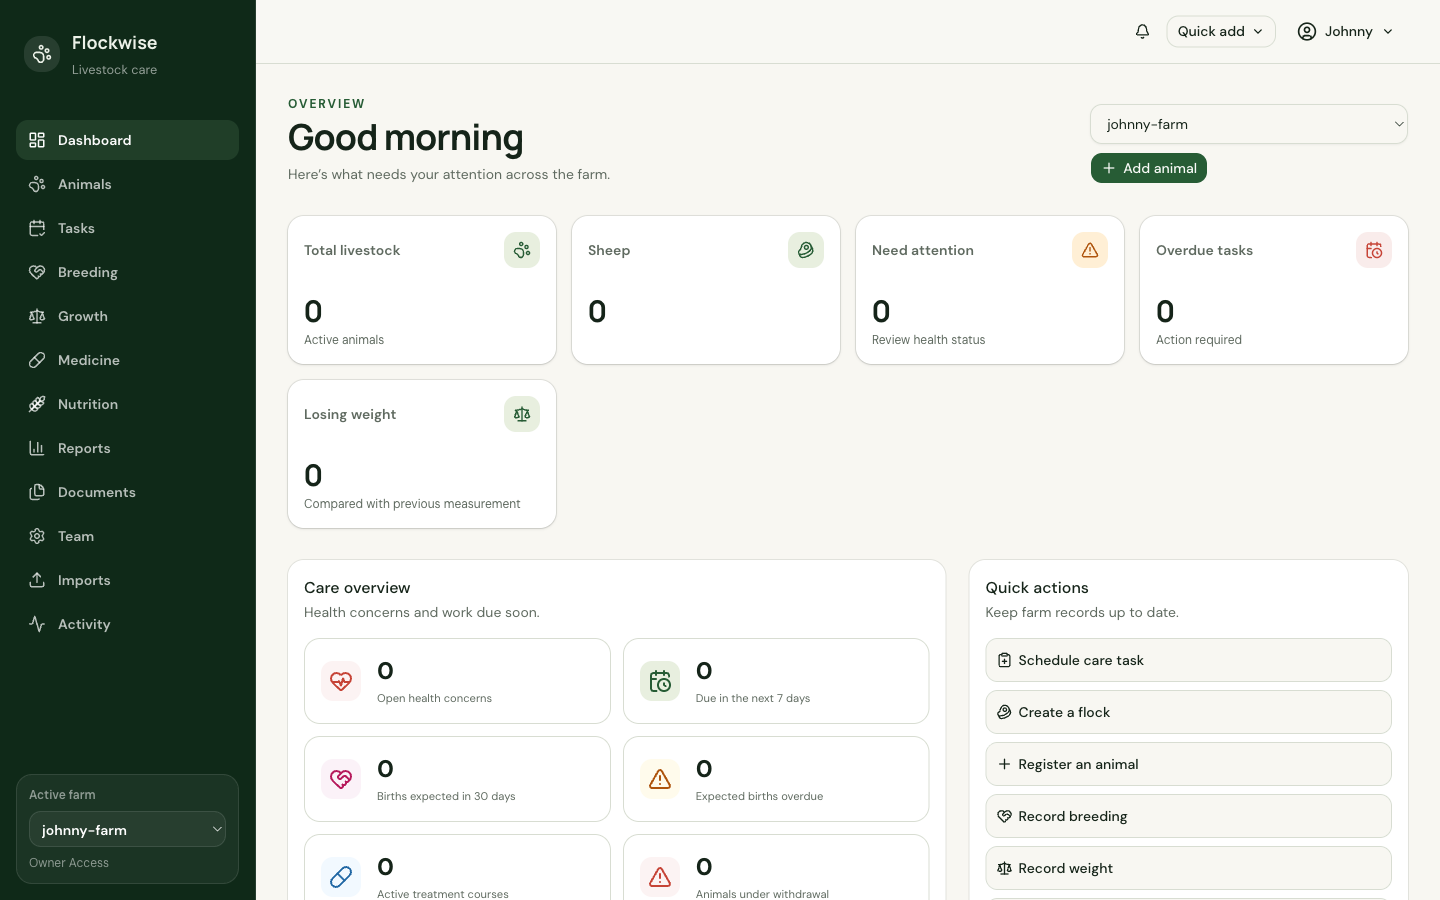
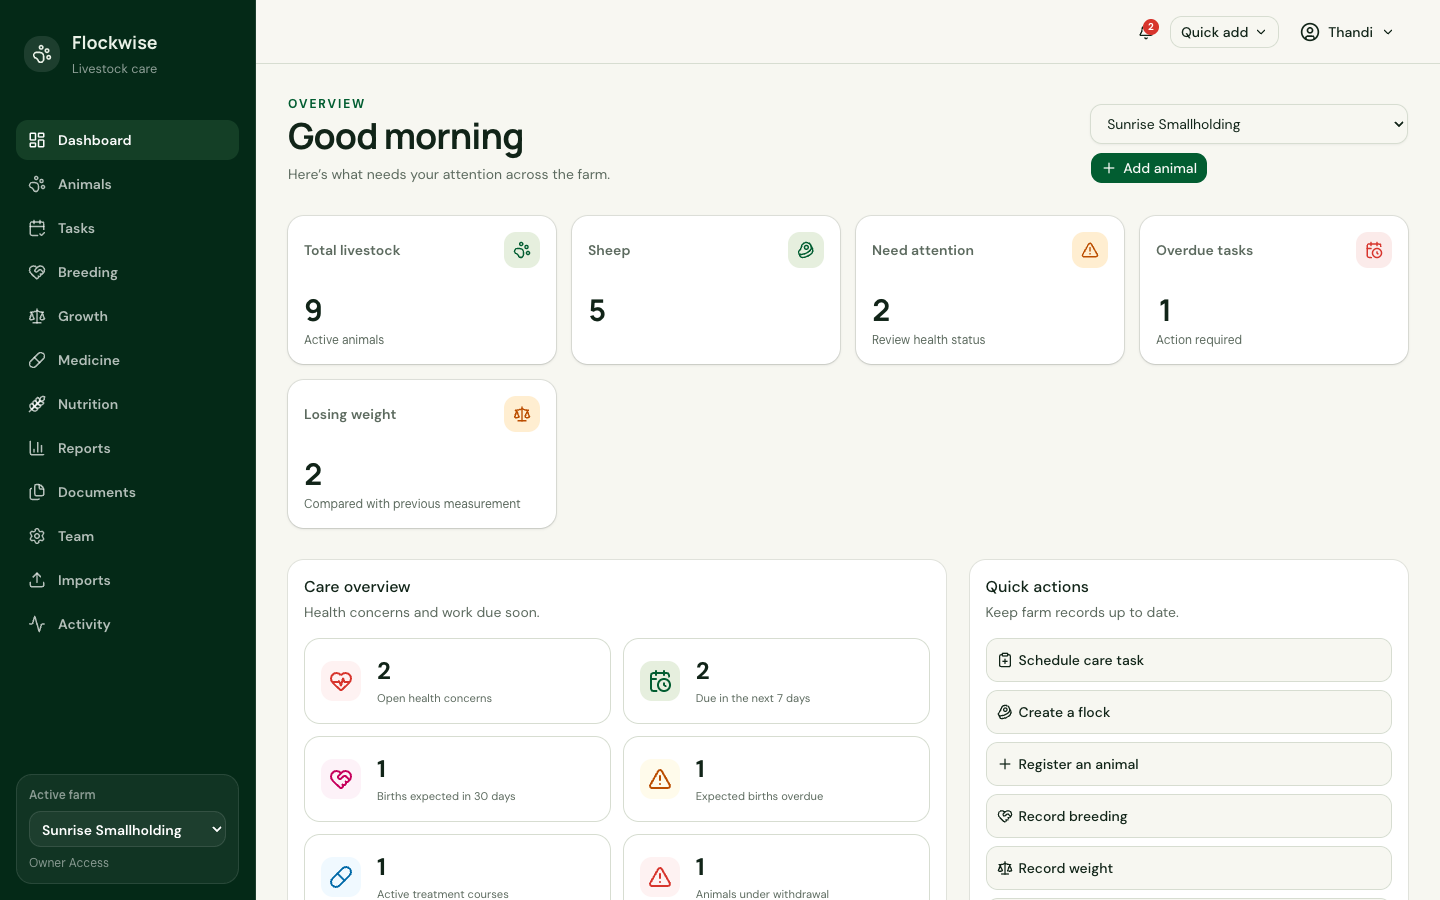
feat: refresh project screenshots and remove Gardenwise

diff --git a/index.html b/index.html
@@ -137,7 +137,7 @@
         <div class="section-heading reveal">
           <p class="section-number">03 / Side projects</p>
           <h2 id="projects-title">Systems built beyond the day job.</h2>
-          <p>Practical products shaped around real workflows—from parking to farm and garden operations.</p>
+          <p>Practical products shaped around real workflows—from parking to farm operations.</p>
         </div>
 
         <div class="project-grid">
@@ -197,34 +197,6 @@
             </div>
           </article>
 
-          <article class="project-card project-card-gardenwise reveal">
-            <div class="project-preview" aria-hidden="true">
-              <span class="project-preview-number">03</span>
-              <div class="project-preview-copy">
-                <strong>Gardenwise</strong>
-                <span>Garden journal / Planning</span>
-              </div>
-              <div class="project-preview-signal"><i></i><i></i><i></i></div>
-            </div>
-            <div class="project-card-body">
-              <p class="project-type">Garden journal / Full stack</p>
-              <h3>Gardenwise</h3>
-              <p>
-                A self-hosted garden journal for organising growing areas, plantings, care tasks,
-                observations and harvest history in a mobile-friendly workspace.
-              </p>
-              <ul class="project-tech" aria-label="Gardenwise technologies">
-                <li>FastAPI</li><li>Nuxt</li><li>PostgreSQL</li><li>TypeScript</li><li>Docker</li>
-              </ul>
-              <a
-                class="project-link"
-                href="https://github.com/Singatha/garden-tracker"
-                target="_blank"
-                rel="noreferrer"
-                aria-label="View Gardenwise on GitHub (opens in a new tab)"
-              >View on GitHub <span aria-hidden="true">↗</span></a>
-            </div>
-          </article>
         </div>
       </section>
 

diff --git a/styles.css b/styles.css
@@ -433,7 +433,7 @@ h1 span:last-of-type::after {
 
 .project-grid {
   display: grid;
-  grid-template-columns: repeat(3, minmax(0, 1fr));
+  grid-template-columns: repeat(2, minmax(0, 1fr));
   gap: 22px;
 }
 
@@ -451,10 +451,6 @@ h1 span:last-of-type::after {
 
 .project-card-parkwise {
   --project-accent: var(--orange);
-}
-
-.project-card-gardenwise {
-  --project-accent: var(--sky);
 }
 
 .project-preview {
@@ -502,61 +498,12 @@ h1 span:last-of-type::after {
   object-position: left top;
 }
 
-.project-preview-number {
-  position: relative;
-  z-index: 1;
-  grid-column: 1 / -1;
-  font-family: "Arial", "Helvetica Neue", sans-serif;
-  font-size: clamp(4rem, 7vw, 6.7rem);
-  font-weight: 900;
-  line-height: 0.75;
-  letter-spacing: -0.09em;
-}
-
-.project-preview-copy {
-  position: relative;
-  z-index: 1;
-  display: grid;
-  align-self: end;
-  gap: 5px;
-}
-
-.project-preview-copy strong {
-  font-size: 1rem;
-  line-height: 1;
-}
-
-.project-preview-copy span,
 .project-type {
   font-family: "Courier New", monospace;
   font-size: 0.68rem;
   font-weight: 800;
   text-transform: uppercase;
   letter-spacing: 0.06em;
-}
-
-.project-preview-signal {
-  position: relative;
-  z-index: 1;
-  display: flex;
-  gap: 5px;
-  align-items: end;
-  align-self: end;
-}
-
-.project-preview-signal i {
-  display: block;
-  width: 8px;
-  height: 25px;
-  background: var(--ink);
-}
-
-.project-preview-signal i:nth-child(2) {
-  height: 42px;
-}
-
-.project-preview-signal i:nth-child(3) {
-  height: 62px;
 }
 
 .project-card-body {
